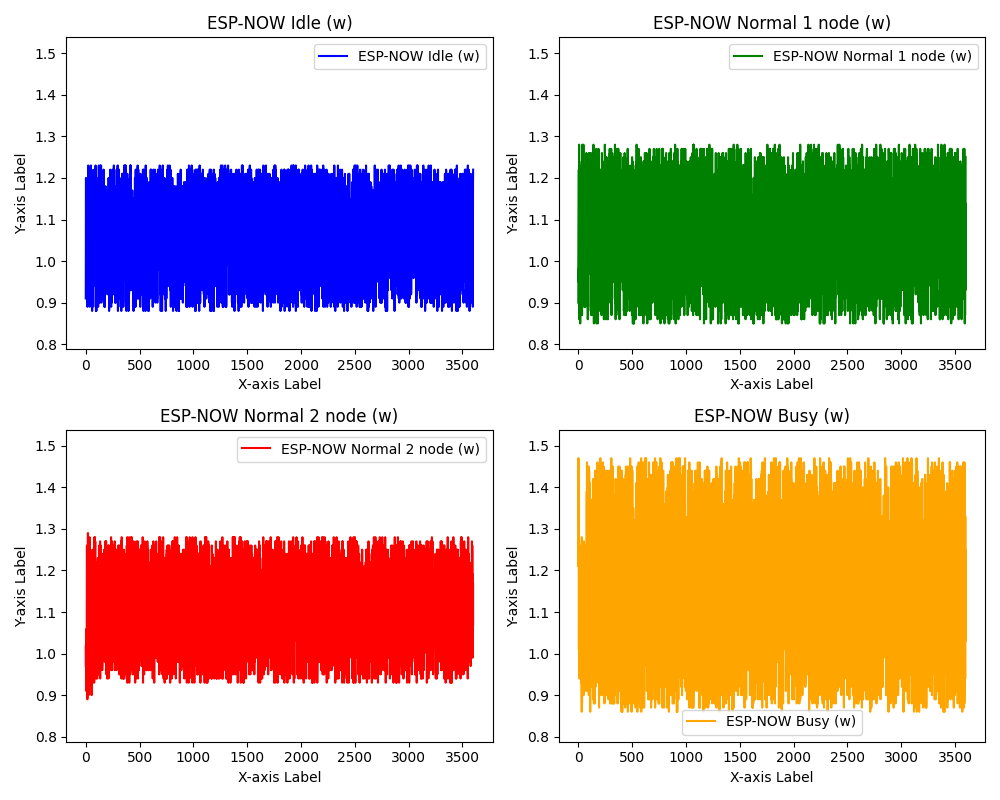
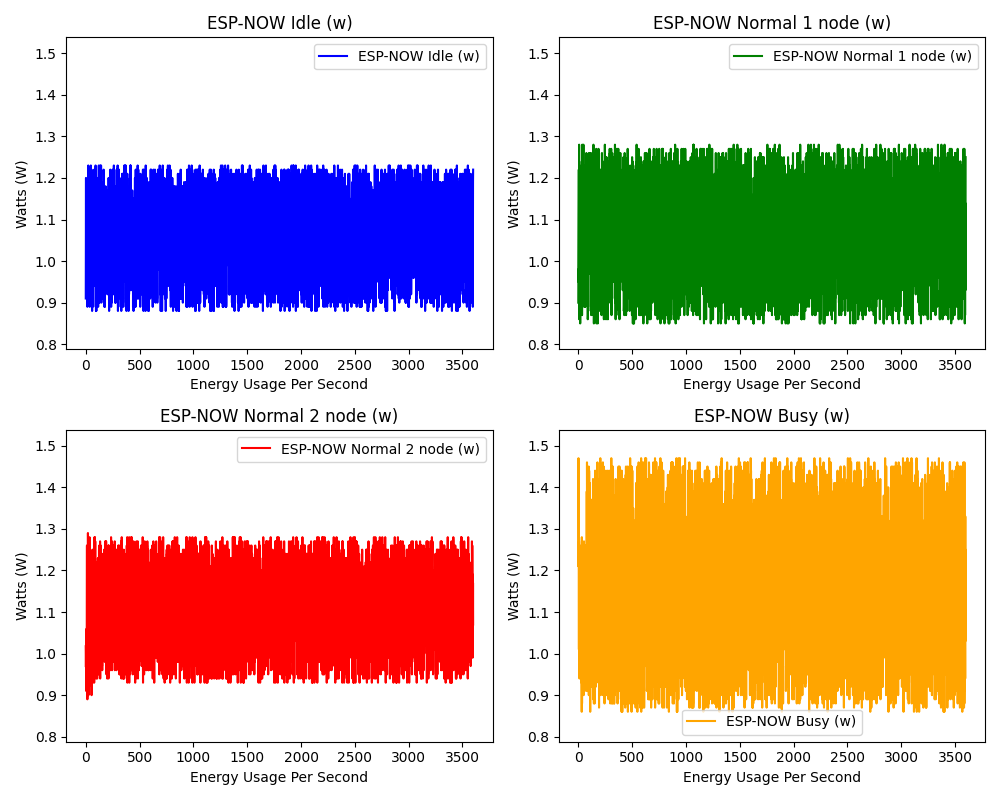
slight updated to axis labels and code cleaning

diff --git a/data_analysis.py b/data_analysis.py
@@ -2,52 +2,39 @@ import pandas as pd
 import os
 import matplotlib.pyplot as plt
 
-# Define the base path where the CSV files are located
 base_path = 'Power_Consumption/'
 
 file_paths = [os.path.join(dirpath, file) for dirpath, _, filenames in os.walk(base_path) for file in filenames]
 
-# for file_path in file_paths:
-#     print(file_path)
 
 colors = ['blue', 'green', 'red', 'orange']
 
 for file in file_paths:
     df = pd.read_csv(file)
     
-    # Filter out any columns named 'Unnamed: X' where X is any number
     columns = [col for col in df.columns if not col.startswith('Unnamed')]
     
-    # Determine the min and max values across all columns for dynamic y-axis scaling
-    min_val = df[columns].min().min()  # Min value across all columns
-    max_val = df[columns].max().max()  # Max value across all columns
+    min_val = df[columns].min().min() 
+    max_val = df[columns].max().max()  
     
-    # Increase the max value slightly for better visualization
-    min_val += (max_val - min_val) * -0.1  # Adjust the min value downwards by 10% of the range (max - min)
-    max_val += (max_val - min_val) * 0.1  # Adjust the max value upwards by 10% of the range
+    min_val += (max_val - min_val) * -0.1  
+    max_val += (max_val - min_val) * 0.1 
     
-    # Create a figure and a set of subplots in a 2x2 arrangement
-    fig, axs = plt.subplots(2, 2, figsize=(10, 8))  # Adjusted figsize for better visualization
+    fig, axs = plt.subplots(2, 2, figsize=(10, 8))  
     
-    # Flatten the axs array to easily use the enumerations from the columns
     axs = axs.flatten()
     
     for i, col in enumerate(columns):
         try:
-            # Assuming 'colors' is defined earlier; otherwise, replace it or define it.
-            axs[i].plot(df[col], label=col, color=colors[i])  # Example with a single color for all
+            axs[i].plot(df[col], label=col, color=colors[i]) 
             axs[i].set_title(col)
-            axs[i].set_xlabel("X-axis Label")  # Update with actual label
-            axs[i].set_ylabel("Y-axis Label")  # Update with actual label
+            axs[i].set_xlabel("Energy Usage Per Second")  
+            axs[i].set_ylabel("Watts (W)")  
             axs[i].legend()
-            # Set the y-axis limits based on the calculated min and adjusted max values
             axs[i].set_ylim(min_val, max_val)
         except TypeError as e:
             print(f"Cannot plot {col} due to error: {e}")
             continue
         
-    # Adjust layout for a cleaner look
     plt.tight_layout()
-    
-    # Show the plot with all columns from this file
     plt.show()
